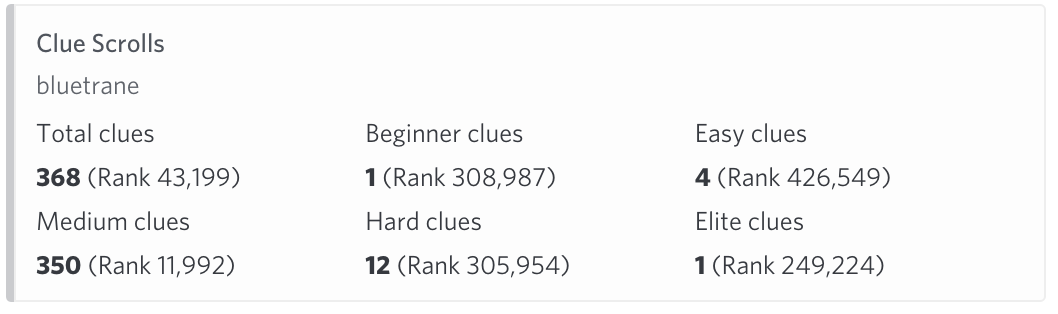
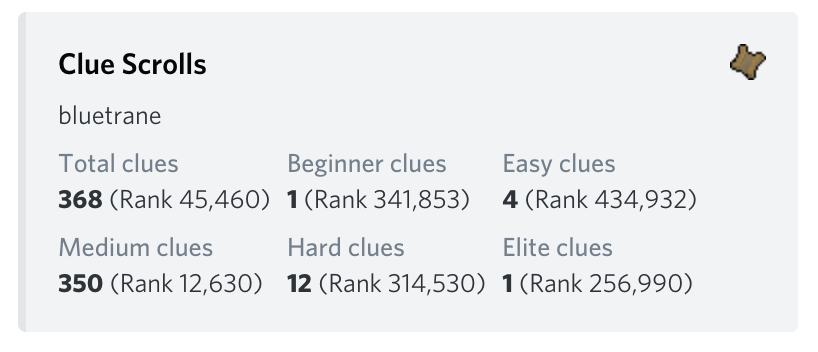
Added new screenshots to README, and updated old ones with new look
Added in the kc, 99s, and xp commands in the screen shots. Adjusted
the widths on the imgs because of the new formatting in the discord
embeds.

diff --git a/README.md b/README.md
@@ -30,42 +30,52 @@ Each command starts with `!blue` or `!b`. Summon a list of the bots commands by 
 You can call `!b help` with a command name after to 
 show information on how to use each command.  
 For example: `!b help attack`  
-<img src="screenshots/help_att_light.png" width="300">
+<img src="screenshots/help_att_light.png" width="350">
 
 ### Levels
 `!b lvl` shows all the available commands.  
-<img src="screenshots/lvl_light.png" width="350">
+<img src="screenshots/lvl_light.png" width="400">
 
 For example `!b attack bluetrane` returns:  
-<img src="screenshots/att_command_light.png" width="400">
+<img src="screenshots/att_command_light.png" width="250">
 
 Or `!b total zezima`  
-<img src="screenshots/total_zezima_light.png" width="300">
+<img src="screenshots/total_zezima_light.png" width="250">
+
+Show a user's boss kill counts with `!b kc bluetrane`:  
+<img src="screenshots/kc_light.png" width="480">
+
+To view all level 99s use `!b 99s bluetrane`:  
+<img src="screenshots/99s_light.png" width="200">
+
+`!b xp bluetrane` is a helpful weekly summary of XP gains and other details.  
+<img src="screenshots/xp_light.png" width="430">  
+This pulls data from [Crystal Math Labs](https://crystalmathlabs.com).
 
 ### Scores
-`!b help Scores` shows a list of the commands available  
-<img src="screenshots/scores_light.png" width="450">
+`!b help scores` shows a list of the commands available  
+<img src="screenshots/scores_light.png" width="350">
 
 For example `!b clues bluetrane` returns  
-<img src="screenshots/clues_light.png" width="400">
+<img src="screenshots/clues_light.png" width="450">
 
 ### Calculators
-`!b help Calculators` can be used to see all available calculators with short descriptions.  
-<img src="screenshots/calculators_light.png" width="300">
+`!b help calculators` can be used to see all available calculators with short descriptions.  
+<img src="screenshots/calculators_light.png" width="400">
 
 For example `!b wines zezima` returns  
-<img src="screenshots/wines_light.png" width="350">
+<img src="screenshots/wines_light.png" width="320">
 
 Or `!b rooftop bluetrane` returns  
 <img src="screenshots/rooftop_light.png" width="450">
 
 ### Links
 The bot can return useful URLs for an easy way to share/lookup a link.
-`!b help Links` shows a list of available commands.  
-<img src="screenshots/links_light.png" width="350">
+`!b help links` shows a list of available commands.  
+<img src="screenshots/links_light.png" width="550">
 
 For example `!b ge trident` returns  
-<img src="screenshots/ge_light_graph.png" width="450">
+<img src="screenshots/ge_light_graph.png" width="550">
 
 Or `!b wiki rune plate` returns
 ```
@@ -85,3 +95,4 @@ Library | Description
 [BeautifulSoup](https://www.crummy.com/software/BeautifulSoup/) | Web scraping tool
 [embed_help](https://github.com/zedchance/embed_help) | Better looking help messages
 [matplotlib](https://matplotlib.org) | Python 2D plotting library
+[Crystal Math Labs](https://crystalmathlabs.com) | OSRS XP tracking site
